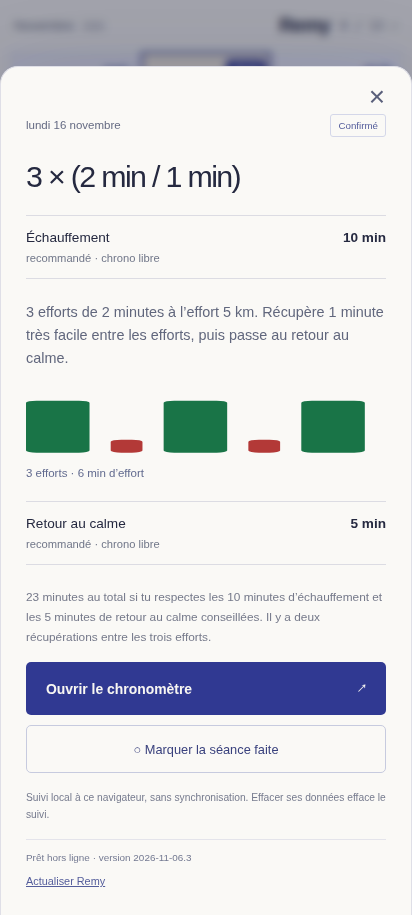
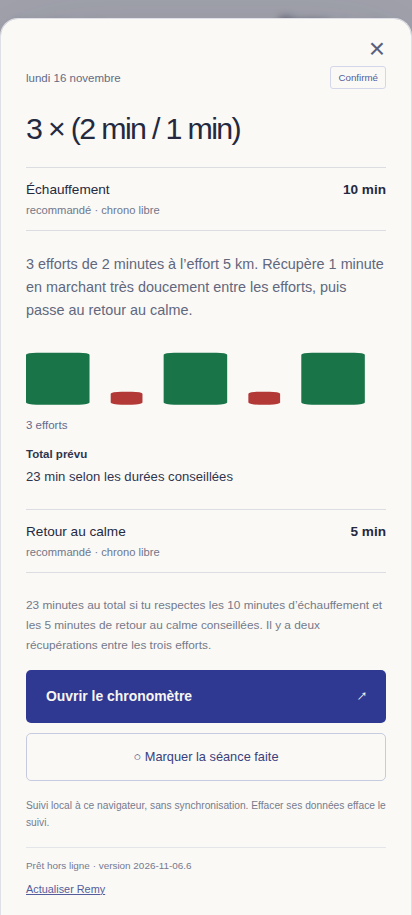
Affiche les totaux fidèles et précise les récupérations marchées

diff --git a/app.js b/app.js
@@ -1,4 +1,4 @@
-import { Timer, buildPhases, formatTime, validSnapshot } from './engine.js';
+import { Timer, buildPhases, formatTime, validSnapshot, plannedDuration } from './engine.js';
 const $ = id => document.getElementById(id);
 const escape = value => String(value ?? '').replace(/[&<>"']/g, c => ({'&':'&amp;','<':'&lt;','>':'&gt;','"':'&quot;',"'":'&#39;'}[c]));
 const date = key => new Date(`${key}T12:00:00`);
@@ -78,6 +78,24 @@ function workoutGraph(day,detail=false) {
   let x=0;const shapes=bars.map(v=>{const rect=`<rect x="${x}" y="${28-v.height}" width="${v.width}" height="${v.height}" rx="1"${v.kind?` data-kind="${escape(v.kind)}"`:''}/>`;x+=v.width+2;return rect;}).join('');
   return `<svg class="workout-graph ${detail?'graph-detail':''}" viewBox="0 0 ${x} 30" preserveAspectRatio="none" aria-hidden="true">${shapes}</svg>`;
 }
+function totalLabel(day,compact=false) {
+  const {minSeconds,maxSeconds,unknownKinds}=plannedDuration(day);
+  const minutes=n=>new Intl.NumberFormat('fr-CA',{maximumFractionDigits:2}).format(n/60);
+  const base=`${minutes(minSeconds)}${maxSeconds!==minSeconds?'–'+minutes(maxSeconds):''} min`;
+  if(unknownKinds.length===1&&unknownKinds[0]==='long-recovery')return base+(compact?' + pause':' + pause entre les blocs, durée à confirmer');
+  if(unknownKinds.includes('warmup')&&unknownKinds.includes('cooldown'))return base+(compact?' + étapes libres':' + échauffement et retour au calme, durées non définies');
+  if(unknownKinds.length)return base+' + étapes à confirmer';
+  return base+(compact?' prévues':' selon les durées conseillées');
+}
+function totalDetail(day) {
+  return `<p class="planned-total"><strong>Total prévu</strong><span>${escape(totalLabel(day))}</span></p>`;
+}
+function blockBreakDetail(day) {
+  if(day.workout.blocks<=1)return '';
+  const seconds=day.workout.betweenBlocksSeconds;
+  const duration=seconds==null?'Durée à confirmer':formatTime(seconds*1000);
+  return `<p class="detail-note">Pause entre les blocs : ${escape(duration)}${day.betweenBlocksCue?' · '+escape(day.betweenBlocksCue):''}.${seconds==null?' Maintiens le bouton 3 s quand tu es prêt à repartir.':''}</p>`;
+}
 function renderDays() {
   const offset=(date(data.days[0].date).getDay()+6)%7;
   let html='<span class="calendar-blank" aria-hidden="true"></span>'.repeat(offset);
@@ -86,8 +104,8 @@ function renderDays() {
     const done=!!completed[day.date],w=day.workout,type=w?.type;
     const hasStrides=type==='easy-strides'||(type==='steps'&&buildPhases(w).some(p=>p.kind==='stride'));
     const total=type==='steps'?buildPhases(w).reduce((n,p)=>n+(p.seconds||0),0):null;
-    const label=type==='race'?'Oxford Cup':day.rest?'Repos':day.effortMinutes?`${day.effortMinutes} min d’effort`:w?.durationSeconds?`${w.optionalAfterSeconds?w.optionalAfterSeconds/60+'–':''}${w.durationSeconds/60} min`:total?`${total/60} min`:'';
-    html+=`<button type="button" class="day-button ${day.status} ${type==='race'?'race':''} ${w?'has-workout':''} ${day.rest?'rest':''} ${done?'completed':''}" data-day="${day.date}" aria-haspopup="dialog" aria-label="${escape(dayFormat.format(date(day.date))+' : '+day.title+(day.optional?', facultatif':'')+(w?done?', séance faite':', séance à faire':''))}"><span class="day-top"><span class="day-name">${escape(weekday.format(date(day.date)).replace('.',''))}</span><span class="day-number">${String(date(day.date).getDate()).padStart(2,'0')}</span></span>${workoutGraph(day)}<span class="day-short">${escape(label+(hasStrides?' · strides':'')+(day.optional?' · facultatif':''))}</span>${done?'<span class="day-marker" aria-hidden="true">✓</span>':''}${type==='race'?'<span class="race-flag" aria-hidden="true">⚑</span>':''}</button>`;
+    const label=type==='race'?'Oxford Cup':day.rest?'Repos':type==='repeats'?totalLabel(day,true):w?.durationSeconds?`${w.optionalAfterSeconds?w.optionalAfterSeconds/60+'–':''}${w.durationSeconds/60} min`:total?`${total/60} min`:'';
+    html+=`<button type="button" class="day-button ${day.status} ${type==='race'?'race':''} ${w?'has-workout':''} ${day.rest?'rest':''} ${done?'completed':''}" data-day="${day.date}" aria-haspopup="dialog" aria-label="${escape(dayFormat.format(date(day.date))+' : '+day.title+(type==='repeats'?', total : '+totalLabel(day):'')+(day.optional?', facultatif':'')+(w?done?', séance faite':', séance à faire':''))}"><span class="day-top"><span class="day-name">${escape(weekday.format(date(day.date)).replace('.',''))}</span><span class="day-number">${String(date(day.date).getDate()).padStart(2,'0')}</span></span>${workoutGraph(day)}<span class="day-short">${escape(label+(hasStrides?' · strides':'')+(day.optional?' · facultatif':''))}</span>${done?'<span class="day-marker" aria-hidden="true">✓</span>':''}${type==='race'?'<span class="race-flag" aria-hidden="true">⚑</span>':''}</button>`;
   }
   $('days').innerHTML=html;refreshCalendarDates();
   const count=data.days.filter(d=>d.workout&&completed[d.date]).length,total=data.days.filter(d=>d.workout).length;
@@ -97,8 +115,8 @@ function renderDays() {
 function outline(day) {
   const w = day.workout;
   if (!w) return '';
-  if(w.type==='repeats' && day.warmupRecommendation) return `<div class="session-plan"><p class="recommendation">Échauffement <strong>${escape(day.warmupRecommendation)}</strong><small>recommandé · chrono libre</small></p><p class="summary">${escape(day.summary)}</p>${workoutGraph(day,true)}<p class="graph-caption">${w.blocks>1?`${w.blocks} blocs · ${w.reps} efforts par bloc`:`${w.reps} efforts`} · ${day.effortMinutes} min d’effort</p>${w.blocks>1?'<p class="detail-note">Pause libre entre les blocs. Maintiens le bouton 3 s quand tu es prêt à repartir.</p>':''}<p class="recommendation">Retour au calme <strong>${escape(day.cooldownRecommendation)}</strong><small>recommandé · chrono libre</small></p></div>`;
-  if(w.type==='repeats' && w.blocks===1) return `<div class="session-plan"><p class="recommendation">Échauffement <strong>Chrono libre</strong><small>Commence doucement. Quand tu es prêt, maintiens « Commencer les intervalles » pendant 3 secondes.</small></p><p class="summary">${escape(day.summary)}</p>${workoutGraph(day,true)}<p class="graph-caption">${w.reps} efforts · ${day.effortMinutes} min d’effort</p><p class="recommendation">Retour au calme <strong>Chrono libre</strong><small>Ralentis doucement. Déverrouille les commandes, puis touche « Stop · résumé » quand tu as terminé.</small></p></div>`;
+  if(w.type==='repeats' && day.warmupRecommendation) return `<div class="session-plan"><p class="recommendation">Échauffement <strong>${escape(day.warmupRecommendation)}</strong><small>recommandé · chrono libre</small></p><p class="summary">${escape(day.summary)}</p>${workoutGraph(day,true)}<p class="graph-caption">${w.blocks>1?`${w.blocks} blocs · ${w.reps} efforts par bloc`:`${w.reps} efforts`}</p>${totalDetail(day)}${blockBreakDetail(day)}<p class="recommendation">Retour au calme <strong>${escape(day.cooldownRecommendation)}</strong><small>recommandé · chrono libre</small></p></div>`;
+  if(w.type==='repeats' && w.blocks===1) return `<div class="session-plan"><p class="recommendation">Échauffement <strong>Chrono libre</strong><small>Commence doucement. Quand tu es prêt, maintiens « Commencer les intervalles » pendant 3 secondes.</small></p><p class="summary">${escape(day.summary)}</p>${workoutGraph(day,true)}<p class="graph-caption">${w.reps} efforts</p>${totalDetail(day)}<p class="recommendation">Retour au calme <strong>Chrono libre</strong><small>Ralentis doucement. Déverrouille les commandes, puis touche « Stop · résumé » quand tu as terminé.</small></p></div>`;
   let rows;
   if (w.type === 'repeats') rows = [['Échauffement',w.warmupSeconds == null ? 'Manuel' : formatTime(w.warmupSeconds*1000)], [`${w.blocks > 1 ? w.blocks + ' blocs de ' : ''}${w.reps} × ${w.effortSeconds/60} min`,`${day.effortMinutes} min d’effort`], ['Entre les répétitions',`${w.recoverySeconds/60} min`], ...(w.blocks > 1 ? [['Entre les blocs',w.betweenBlocksSeconds == null ? 'Manuel' : formatTime(w.betweenBlocksSeconds*1000)]] : []), ['Retour au calme',w.cooldownSeconds == null ? 'Manuel' : formatTime(w.cooldownSeconds*1000)]];
   else if (w.type === 'jog') rows = [[w.zone?`Jog · ${w.zone}`:'Jog',`${w.optionalAfterSeconds?w.optionalAfterSeconds/60+'–':''}${w.durationSeconds/60} min`],...(w.optionalAfterSeconds?[[`Après ${w.optionalAfterSeconds/60} min`,'Tu peux arrêter selon ton état']]:[]),['Après le compte à rebours','Temps supplémentaire libre']];
@@ -221,7 +239,7 @@ function renderTimer() {
   const label=s.done?'Résumé':optional?'Jog · portion facultative':p.label,phaseKey=`${s.index}:${strideActive}:${s.done}:${optional}`;
   if(lastPhase!==phaseKey){if(lastPhase)beep();$('phase-announcer').textContent=label;lastPhase=phaseKey;}
   $('timer-screen').dataset.kind=s.done?'done':p.kind==='overtime'?'overtime':strideActive?'stride':optional?'optional':p.kind;
-  $('phase-label').textContent=label;$('phase-zone').textContent=p.zone||(p.kind==='effort'?activeDay.workout.effortCue:p.kind==='recovery'?activeDay.workout.recoveryCue:activeDay.workout.zone)||'';
+  $('phase-label').textContent=label;$('phase-zone').textContent=p.zone||(p.kind==='effort'?activeDay.workout.effortCue:p.kind==='recovery'?(activeDay.recoveryCue||activeDay.workout.recoveryCue):p.kind==='long-recovery'?activeDay.betweenBlocksCue:activeDay.workout.zone)||'';
   $('phase-detail').textContent=s.done?'Séance arrêtée':optional?`${activeDay.workout.optionalAfterSeconds/60} minutes faites · tu peux arrêter ici.`:p.kind==='warmup'&&activeDay.warmupRecommendation?`${activeDay.warmupRecommendation} recommandées`:p.kind==='cooldown'&&activeDay.cooldownRecommendation?`${activeDay.cooldownRecommendation} recommandées`:p.detail||'';
   $('time').textContent=s.done?formatTime(s.totalMs):formatTime(remaining==null?s.phaseMs:remaining,remaining!=null);
   $('time-caption').textContent=s.done?'Temps actif total':p.kind==='overtime'?'Après le temps prévu · Stop quand tu as terminé':remaining==null?'Temps écoulé · arrêt manuel':optional?'Temps facultatif restant':'Temps restant';

diff --git a/engine.js b/engine.js
@@ -28,6 +28,21 @@ export function buildPhases(workout) {
   return phases;
 }
 
+// Planning totals use recommended ranges without changing the manual timer phases.
+// Unknown phases remain explicit; they are never silently counted as zero.
+export function plannedDuration(day) {
+  let minSeconds=0,maxSeconds=0;
+  const unknownKinds=[];
+  for(const p of buildPhases(day?.workout)) {
+    if(p.kind==='overtime')continue;
+    const range=p.kind==='warmup'?day.warmupRangeSeconds:p.kind==='cooldown'?day.cooldownRangeSeconds:null;
+    if(range){minSeconds+=range[0];maxSeconds+=range[1];}
+    else if(p.seconds!=null){minSeconds+=p.seconds;maxSeconds+=p.seconds;}
+    else if(!unknownKinds.includes(p.kind))unknownKinds.push(p.kind);
+  }
+  return {minSeconds,maxSeconds,unknownKinds};
+}
+
 export class Timer {
   constructor(phases, saved) {
     this.phases = phases;

diff --git a/style.css b/style.css
@@ -85,6 +85,8 @@
   .badge.provisional,.badge.optional { color: #a24e2d; }
   .day-detail h2 { font-size: 2rem; font-weight: 500; letter-spacing: -.055em; line-height: 1.12; margin: 25px 0 17px; max-width: 360px; }
   .graph-detail { width:100%; height:65px; max-height:none; margin:22px 0 8px; }
+  .planned-total { margin:14px 0; font-size:.82rem; line-height:1.6; color:#30354d; }
+  .planned-total strong { display:block; font-size:.72rem; margin-bottom:2px; }
   .graph-caption { font-size:.72rem; color:#626b8f; margin:10px 0; }
   .recommendation { margin:22px 0; padding:14px 0; border-top:1px solid var(--line); border-bottom:1px solid var(--line); font-size:.85rem; display:flex; flex-wrap:wrap; gap:7px; justify-content:space-between; }
   .recommendation small { flex-basis:100%; color:#717789; font-size:.7rem; }

diff --git a/mise-a-jour.html b/mise-a-jour.html
@@ -2,7 +2,7 @@
 <html lang="fr-CA">
 <head>
 <meta charset="utf-8"><meta name="viewport" content="width=device-width,initial-scale=1">
-<meta name="remy-build" content="remy-1c683ac68f4c5bcc"><title>Actualiser Remy</title>
+<meta name="remy-build" content="remy-cab7094967d6e1f3"><title>Actualiser Remy</title>
 <style>body{margin:0;padding:32px;font:16px/1.6 Arial,sans-serif;background:#f5f4f0;color:#252940}main{max-width:480px;margin:12vh auto}h1{font-size:28px;letter-spacing:-1px}a{color:#303992}p{margin:20px 0}</style>
 </head>
 <body><main><h1>Actualisation de Remy</h1><p id="status" role="status">Recherche de la dernière version… Tes séances faites sont conservées.</p><a href="./">Retour au calendrier</a></main>

diff --git a/index.html b/index.html
@@ -3,7 +3,7 @@
 <head>
   <meta charset="utf-8">
   <meta name="viewport" content="width=device-width, initial-scale=1, viewport-fit=cover">
-  <meta name="remy-build" content="remy-1c683ac68f4c5bcc">
+  <meta name="remy-build" content="remy-cab7094967d6e1f3">
   <meta name="theme-color" content="#f5f4f0">
   <meta name="description" content="Le carnet de course de Remy. Calendrier et chronomètre pour l’Oxford Cup du 21 novembre 2026.">
   <title>Remy — Calendrier</title>

diff --git a/sw.js b/sw.js
@@ -1,5 +1,5 @@
 // Generated build identity includes this worker and every static resource.
-const VERSION = 'remy-1c683ac68f4c5bcc';
+const VERSION = 'remy-cab7094967d6e1f3';
 const SCOPE = new URL(self.registration.scope);
 const CACHE = `${VERSION}@${SCOPE.pathname}`;
 const FILES = ['./','./index.html','./mise-a-jour.html','./style.css','./app.js','./engine.js','./schedule.json','./icon.svg','./icon-192.png','./icon-512.png','./manifest.webmanifest'];

diff --git a/docs/verification.md b/docs/verification.md
@@ -4,7 +4,7 @@ Version adaptée après l’essai d’Eric sur Galaxy. Vérifications de cette n
 
 ## Résultats
 
-- **30 tests moteur** : calendrier continu du 5 au 21; prescriptions séparées des 5, 7 et 14; 24 minutes d’effort le 9, 20 le 11, activation de 20 minutes inchangée; échauffements ouverts; pause interblocs libre; pause/reprise; retards d’horodatages; arrêt explicite; temps supplémentaire; strides au-delà de six; distinction lancés/complétés/interrompus; reprise de deux chronos sauvegardés; total réel par phase.
+- **33 tests moteur** : calendrier continu du 5 au 21; prescriptions séparées des 5, 7 et 14; 24 minutes d’effort le 9, 20 le 11, activation de 20 minutes inchangée; échauffements ouverts; pause interblocs libre; pause/reprise; retards d’horodatages; arrêt explicite; temps supplémentaire; strides au-delà de six; distinction lancés/complétés/interrompus; reprise de deux chronos sauvegardés; total réel par phase.
 - **25 parcours navigateur** : calendrier et fiches, suivi local, sous-chemin `/Remy/`, six tailles de fenêtre de 320 à 1 440 px, verrouillage et annulations d’appui, clavier, navigation protégée, phases, vue paysage, activation, rechargement hors ligne, refus des API plein écran/écran éveillé, stockage indisponible et reprise après arrière-plan.
 - **24 parcours mobiles avec événements tactiles Chromium** : grandes cases carrées à 412×915, recommandations et graphique du lundi, maintiens de 3 s indépendants du verrouillage, annulation à 2 999 ms/au déplacement/à l’interruption, maintiens de 1 s, double affichage, pause/reprise/rechargement d’un stride, septième stride autorisé, deux variations légères de luminosité, résumé d’un stride interrompu, temps supplémentaire et franchissement de zéro pendant un stride.
 - Données et cache vérifiés avec `npm run check`; export `dist/` vérifié avec `npm run build`. Les durées d’effort/récupération et la séquence de l’activation du 20 ne changent pas.
@@ -29,7 +29,7 @@ Le défaut de cache a été reproduit : avec le commit `6ab5284` actif et `8755e
 
 La nouvelle version télécharge un ensemble complet avec des requêtes propres à sa version, s’active sans attendre la fermeture de toutes les fenêtres, puis actualise le calendrier. Les pages modernes reportent le rechargement pendant un chrono. Les anciennes pages ne répondant pas au nouveau protocole sont actualisées seulement si elles ne montrent pas de chrono. Le lien `mise-a-jour.html` permet aussi de quitter une ancienne installation sans effacer les données locales. La version est indiquée dans les fiches.
 
-**13 scénarios de migration réussis** simulent les deux anciens états, une mise à jour future avec chrono actif, une connexion coupée et un fichier manquant. Les coches et les chronos compatibles mis en pause sont conservés; une mise à jour incomplète laisse la version hors ligne précédente disponible. Les caches d’autres chemins et localStorage ne sont pas supprimés.
+**14 scénarios de migration réussis** simulent les deux anciens états, une mise à jour future avec chrono actif, une connexion coupée et un fichier manquant. Les coches et les chronos compatibles mis en pause sont conservés; une mise à jour incomplète laisse la version hors ligne précédente disponible. Les caches d’autres chemins et localStorage ne sont pas supprimés.
 
 La nouvelle apparence est vérifiée après migration en fenêtres **360×800** et **412×915** : trois colonnes, cases carrées, noms des jours, mini-graphiques des 9 et 11, mois discret. Captures : [avant migration](migration-avant.png), [après, 360 px](migration-360.png), [après, 412 px](migration-412.png). Il s’agit de simulations Chromium, pas d’une observation du Galaxy d’Eric.
 
@@ -64,6 +64,18 @@ Les parcours tactiles vérifient ces transitions, l’arrêt après 20 minutes e
 À la demande d’Eric, le jog du 13 est remplacé par une journée de repos confirmée. Sa case et sa fiche utilisent le même libellé et le même style pâle que les autres repos, sans bouton de chrono. Le 14 passe à 40 minutes avec ses six strides de 20 secondes; ses textes et son chrono sont adaptés. Les cases des 7, 14, 18 et 20 affichent « strides », sans ajout dans les graphiques. Toutes les autres prescriptions restent identiques. Révision : `2026-11-06.5`.
 
 La migration depuis `17b5d7b` vérifie le remplacement du jog, le maintien des coches et l’ouverture d’un ancien lien de chrono du 13 sur la fiche Repos, sans lancer de séance. Un ancien chrono du 14 est reconnu comme incompatible et repart au début avec un avis explicite; sa coche est conservée. Les 13 scénarios de migration couvrent ces deux changements. Les libellés restent lisibles de 320 à 1 440 px sans débordement horizontal ou vertical; les marges sont adaptées entre 601 et 900 px. Captures : [repos du 13](fiche-repos-13.png), [40 minutes du 14](fiche-strides-14.png).
+
+## Totaux et récupérations marchées
+
+Publication explicitement autorisée après la demande initiale de préparation seule. Les données publiées ne définissent aucune durée pour la pause interblocs du 9 : elle reste à confirmer, avec la consigne marche ou jog très lent. Les récupérations courtes des 9, 11 et 16 sont indiquées comme marchées dans les fiches et les chronos.
+
+- Le 9 : 24 min d’effort + 12 min de récupération marchée + 10–15 min d’échauffement + 5–10 min de retour = **51–61 min, plus la pause entre blocs non définie**.
+- Le 11 : 20 min d’effort + 9 min de récupération marchée = **29 min, plus échauffement et retour au calme non définis**.
+- Le 16 : 10 min d’échauffement conseillées + 6 min d’effort + 2 min de marche + 5 min de retour conseillées = **23 min conseillées**.
+
+Les plages numériques sont contrôlées contre leurs libellés. Les phases du chrono restent exactement identiques et manuelles là où elles l’étaient; les nouvelles consignes sont hors de la signature du programme pour conserver une séance sauvegardée compatible. Une migration supplémentaire depuis `627ae95` vérifie qu’une récupération du 9 mise en pause reprend au même temps avec « Marche » et sa coche conservée. Révision : `2026-11-06.6`.
+
+Questions encore ouvertes : durée de la pause interblocs du 9; durées ou plages conseillées d’échauffement et de retour au calme du 11. Aucun nombre n’a été inventé pour les remplacer.
 
 ## Référence GBoxeur et revue Astra
 

diff --git a/docs/seances.md b/docs/seances.md
@@ -21,9 +21,9 @@ Pour un jog sans durée définie, une étape `steps` avec `seconds: null` compte
 
 ## Répétitions
 
-`repeats` utilise `blocks`, `reps`, `effortSeconds`, `recoverySeconds` et `betweenBlocksSeconds`. L’échauffement et le retour au calme restent ascendants et manuels. Les anciens champs `warmupSeconds` et `cooldownSeconds` ne déclenchent pas de transition automatique. Les recommandations de durée se placent dans `warmupRecommendation` et `cooldownRecommendation` sur la fiche, sans imposer de compte à rebours. La récupération entre répétitions est ajoutée seulement entre deux efforts d’un même bloc. La récupération entre blocs est une seule étape distincte. Aucune récupération chronométrée n’est ajoutée après le dernier effort, avant le retour au calme.
+`repeats` utilise `blocks`, `reps`, `effortSeconds`, `recoverySeconds` et `betweenBlocksSeconds`. L’échauffement et le retour au calme restent ascendants et manuels. Les anciens champs `warmupSeconds` et `cooldownSeconds` ne déclenchent pas de transition automatique. Les recommandations de durée se placent dans `warmupRecommendation` et `cooldownRecommendation` sur la fiche, sans imposer de compte à rebours. Les totaux utilisent les plages numériques correspondantes `warmupRangeSeconds` et `cooldownRangeSeconds` sur la journée, sous forme `[minimum, maximum]` en secondes (deux valeurs identiques pour une recommandation fixe). Le contrôle vérifie que ces plages et leurs libellés concordent. Une plage absente reste explicitement inconnue dans le total, jamais remplacée par zéro. La récupération entre répétitions est ajoutée seulement entre deux efforts d’un même bloc. La récupération entre blocs est une seule étape distincte. Aucune récupération chronométrée n’est ajoutée après le dernier effort, avant le retour au calme.
 
-`effortCue` et `recoveryCue` peuvent préciser le repère affiché pendant les phases, comme « Effort 5 km » et « Très facile » le 16, sans modifier les durées.
+`recoveryCue` et `betweenBlocksCue` sur la journée précisent la marche dans le chrono sans modifier la signature de sa séance sauvegardée. `effortCue` et `recoveryCue` dans le programme peuvent préciser le repère affiché pendant les phases, comme « Effort 5 km » et « Très facile » le 16, sans modifier les durées.
 
 Si `effortMinutes` est présent dans la fiche, le contrôle vérifie qu’il correspond au total des efforts calculé. Préciser une durée manquante dans les données **et** corriger la description et les notes correspondantes.
 

diff --git a/AGENTS.md b/AGENTS.md
@@ -12,7 +12,8 @@ Projet statique indépendant pour Remy. Lire README.md et docs/seances.md avant 
 - Le 10 : jog Z1 20–30 min, chrono 30:00 bleu ciel puis gris après 20 min. Les 10 dernières minutes sont facultatives; aucun arrêt automatique, temps supplémentaire puis résumé au Stop.
 - Le 12 : jog très léger 20–30 min, avec le même compte à rebours et la même portion facultative que le 10. Ne pas reprendre l’ancienne demande 15–20 min.
 - Le 16 : échauffement conseillé 10 min mais libre, 3 × 2 min à effort 5 km, seulement 2 récupérations de 1 min très facile, retour conseillé 5 min mais libre; total indicatif 23 min. Le 18 : facultatif, 20 min très faciles et 4 strides de 10 s, chrono/maintien/compteur existants. Le 20 reste inchangé.
-- Explications sous Strides les 7, 14 et 18, adaptées aux 40/40/20 min et 6×20/6×20/4×10 s : répartition libre, vitesse contrôlée sans sprint, maintien du bouton 1 s, récupération jusqu’à respiration régulière. Le 11 a une fiche plus claire avec échauffement/retour libres; son programme et le contenu du 9 restent inchangés.
+- Explications sous Strides les 7, 14 et 18, adaptées aux 40/40/20 min et 6×20/6×20/4×10 s : répartition libre, vitesse contrôlée sans sprint, maintien du bouton 1 s, récupération jusqu’à respiration régulière. Le 11 a une fiche plus claire avec échauffement/retour libres; ses durées restent inchangées.
+- Totaux des 9, 11 et 16 : inclure les récupérations et les plages conseillées, sans inventer les durées absentes. Le 9 vaut 51–61 min + pause interblocs non définie; le 11, 29 min + échauffement/retour non définis; le 16, 23 min conseillées. Récupérations marchées; entre blocs du 9, marche ou jog très lent. Ces précisions ne changent pas les durées du chrono.
 - Jour courant selon America/Toronto, encadré conservé; jours passés légèrement estompés mais toujours consultables.
 - Garder les données locales au navigateur et le fonctionnement hors ligne. Pas de compte ni de synchronisation implicite.
 - Ajustements Galaxy autorisés : calendrier du 5 au 21, grandes cases carrées; chrono gris/bleu ciel/vert/rouge selon phase. Recommandations du 9 : échauffement 10–15 min et retour au calme 5–10 min, sans transition automatique. Correction d’Eric : les strides des 7 et 14 durent tous 20 s; conserver 40 min les 7 et 14, objectif six.

diff --git a/README.md b/README.md
@@ -39,14 +39,14 @@ Le plein écran et le maintien de l’écran éveillé restent à vérifier sur 
 | Ven. 6 | Repos | — |
 | Sam. 7 | 40 min de jog + 6 strides de 20 s | Déclenchements libres, guide sous Strides |
 | Dim. 8 | 15 min très faciles | Repos si jambes lourdes |
-| Lun. 9 | 2 blocs de 4 × 3 min, 2 min entre efforts | 24 min d’effort; recommandations 10–15 / 5–10 min; pause interblocs libre |
+| Lun. 9 | 2 blocs de 4 × 3 min, 2 min de marche entre efforts | Total : 51–61 min + pause interblocs à confirmer; recommandations 10–15 / 5–10 min |
 | Mar. 10 | 20–30 min en Z1 | Arrêt possible après 20 min; les dix dernières sont facultatives |
-| Mer. 11 | 10 × 2 min, 1 min entre efforts | 20 min d’effort; échauffement et retour libres |
+| Mer. 11 | 10 × 2 min, 1 min de marche entre efforts | Total : 29 min + échauffement et retour non définis |
 | Jeu. 12 | 20–30 min de jog très léger | Même chrono que le 10; arrêt possible après 20 min |
 | Ven. 13 | Repos | — |
 | Sam. 14 | 40 min faciles + 6 strides de 20 s | Échauffement libre; guide sous Strides |
 | Dim. 15 | Repos | Inchangé |
-| Lun. 16 | 3 × 2 min à effort 5 km, 1 min très facile entre efforts | Deux récupérations; 10 min d’échauffement et 5 min de retour conseillées, libres; 23 min si suivies |
+| Lun. 16 | 3 × 2 min à effort 5 km, 1 min de marche très facile entre efforts | Deux récupérations; 10 min d’échauffement et 5 min de retour conseillées, libres; 23 min si suivies |
 | Mar. 17 | 15 min très faciles | Confirmé |
 | Mer. 18 | Facultatif : 20 min très faciles + 4 strides de 10 s | Échauffement libre, maintien 1 s, compteur sans plafond, guide adapté |
 | Jeu. 19 | Repos | — |
